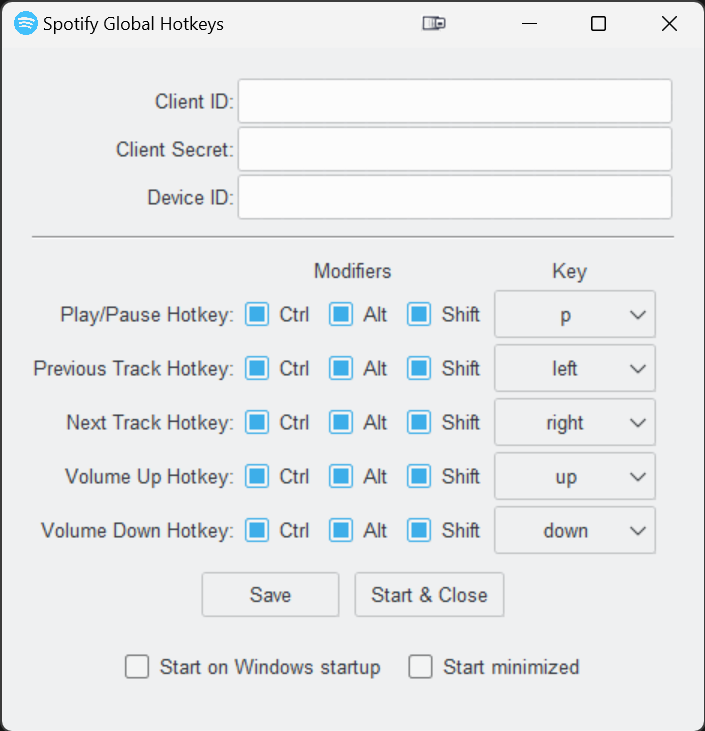
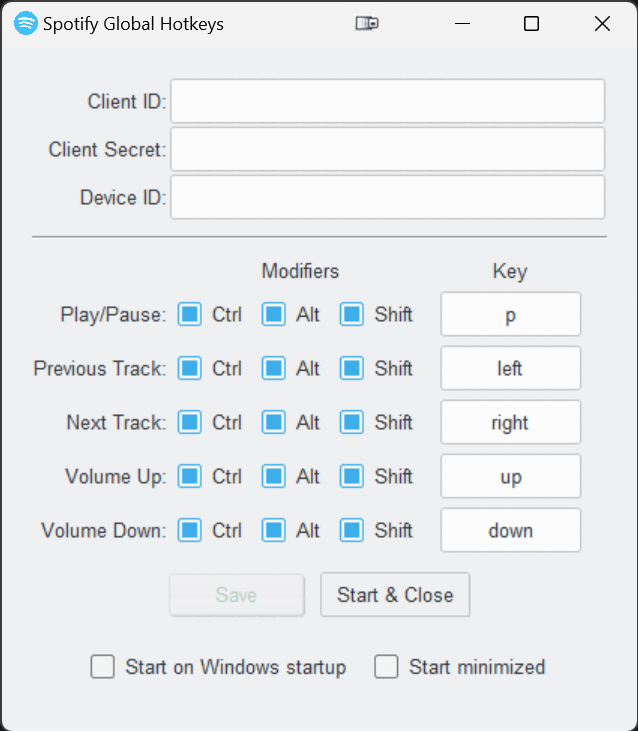
image updates

diff --git a/README.md b/README.md
@@ -2,7 +2,7 @@
 This background Python Windows application utilizes the [global_hotkeys](https://github.com/btsdev/global_hotkeys) module to listen for basic hotkeys, allowing users to easily control Spotify without the window focused. The app leverages the power of [Spotify's Web API](https://developer.spotify.com/documentation/web-api) through the use of [Spotipy](https://github.com/spotipy-dev/spotipy), providing seamless integration between the app and the music streaming platform.
 
 <p align="center">
-<img src="./images/view.png" width="50%" height="50%">
+<img src="./images/view.png" width="60%" height="60%">
 </p>
 
 ## Download
@@ -57,9 +57,9 @@ Quit the app by pressing on "Quit" within the system tray icon menu, or end the 
 ## FAQ
 ### How Do I Disable Certain Hotkeys?
 1. Uncheck all of the `Modifiers` checkboxes.
-2. In the `Key` dropdown, select the empty option at the top.
+2. In the `Key` field, press "Backspace" or "Delete" on your keyboard to clear the field.
     <p>
-    <img src="./images/unbind.png" width="50%" height="50%">
+    <img src="./images/unbind.png" width="70%" height="70%">
     </p>
 ### Where Is My Information Saved?
 1. Press `Win+R` to bring up the "Run" menu, or type in "Run" within your Windows search bar.
